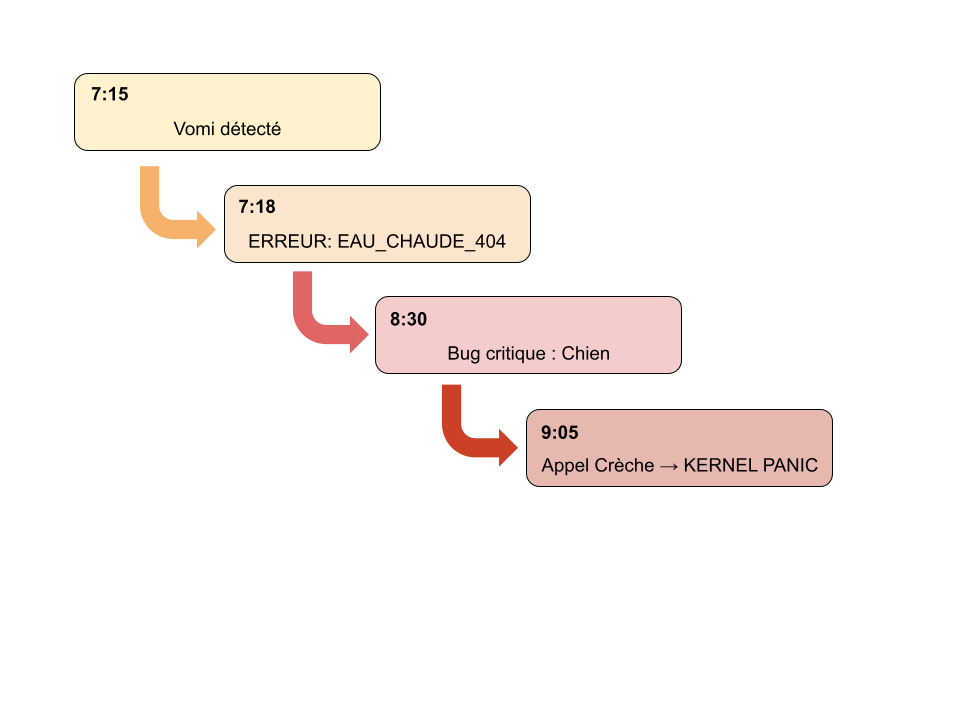
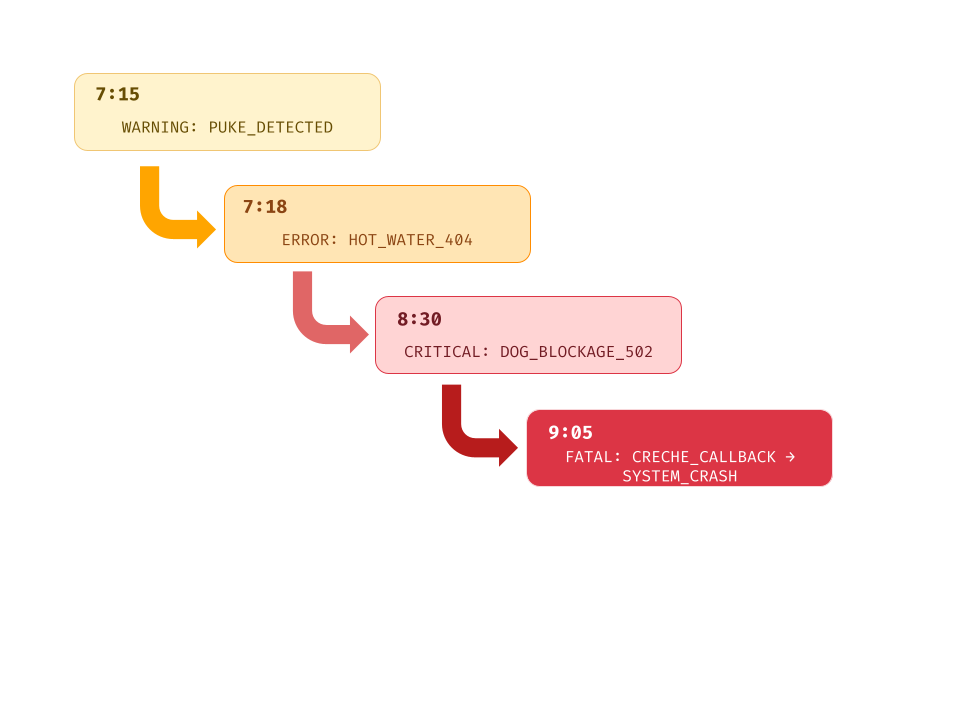
English 03

Changed region(s): [[0.4062, 0.4278, 0.875, 0.7028], [0.125, 0.2139, 0.5625, 0.3667], [0.0938, 0.1222, 0.3438, 0.2139]]

diff --git a/02-pratiques/ProjectManagerMaman/chroniques/03_EN_parental_resource_management.md b/02-pratiques/ProjectManagerMaman/chroniques/03_EN_parental_resource_management.md
@@ -1,0 +1,121 @@
+# Parental Resource Management: When My Kids Turn Me Into an RTS
+
+## 1. Critical Multi-tasking Detected at 7:23 AM
+
+This morning, 7:23 AM, I'm in full intensive micro-management mode. My baby is screaming for his toast while throwing the previous one on the floor, my toddler is running around with an overflowing diaper categorically refusing to be changed, and my dog is barking louder and louder to go out.
+
+I'm inventing a pathetic dance while trying to cook eggs that my older son "doesn't want" but will surely devour if they're not meant for him. Meanwhile, I'm singing an improvised song to distract the little one who cries as soon as I stop looking at him. The sleeves of his t-shirt—though short—are already all stained, he has food everywhere in his hair, and me... I'm on the verge of panicking and starting to cry too.
+
+Welcome to my daily Parental Resource Management. Or as I like to call it: "Terraforming Mars in survival mode with corporations that don't follow any rules."
+
+## 2. Domestic Economy in Free Fall
+
+In a classic resource management game, you start with a balanced board: some credits, base cards, a development plan. In my current family setup, my critical resources are different:
+
+**Energy**: 23% remaining upon waking (if good night), rapid decline with each crisis
+**Patience**: Exhaustible stock, recharge time 4-6h (mandatory nap)
+**Attention**: Impossible to manage multiple projects simultaneously, constantly arbitrating
+**Time**: Daycare deadline non-negotiable, route optimization critical
+
+The problem is that my "opponents" (the children) don't respect any game phase. In Terraforming Mars, at least, other players wait their turn. My children can trigger a crisis while I'm already managing three other emergencies.
+
+And unlike a normal game, you can't pause to plan your strategy.
+
+## 3. Multi-threading Management: Mission Impossible
+
+The morning I describe above? That's real-time multi-threading with processes that constantly crash. In the end, everyone is dressed, fed, and we go out. I leave the house in a state close to a giant meatball storm attack, but that's a problem for later. A later that will come a bit too quickly when we return from our walk... But if an atomic bomb took care of "tidying" my apartment, but the children are happy and doing well, then everything's fine, right?
+
+**Thread 1**: Breakfast preparation (high priority)
+**Thread 2**: Baby eating surveillance (critical - choking risk)
+**Thread 3**: Toddler diaper change negotiation (urgent - imminent overflow)
+**Thread 4**: Stressed dog management (can escalate rapidly)
+**Thread 5**: Mom's general state monitoring (resources in free fall)
+
+In my former life as a Cloud Engineer at Ubisoft, I managed infrastructures with thousands of simultaneous users. But here, with my two main "users," I feel like running a 1995 server on which someone installed Cyberpunk 2077.
+
+## 4. Incident Cascade: The Day Everything Collapses
+
+Let's talk about the day my SLAs completely exploded. It was a Tuesday, finally an almost decent night. I wake up optimistic: "Maybe today the system will hold."
+
+**7:15 AM**: First incident. My toddler wakes up and... vomits everywhere in his bed.
+**7:18 AM**: Escalation. We go to rinse him, but hot water cut off. My son obviously refuses cold water (I understand him).
+**7:45 AM**: Complication. It's THE day both are at daycare and I finally have time for myself. Coffee meeting with a friend planned.
+**8:30 AM**: New emergency. On the way to daycare, my dog has trouble with his needs. Poop blockage in his fur preventing him from relieving himself.
+
+You see the pattern. I drop off the children, go home to manage the canine crisis. And at the precise moment when I have my hands in my dog's poop trying to cut excess hair...
+
+The daycare calls. "Hello madam, can you come pick up your older son?"
+
+Game over. My resources were already at zero, my schedule imploded, and that's total stack overflow.
+
+**Typical fork critical example**: The other day, I'm changing my little one when I hear a metallic noise in the kitchen. I ask my older son what he's doing, but the activity is "too exciting" for him to come see me. Result: he wanted to smell all my teas and there's tea everywhere on the floor. An additional incident to manage when I already had my hands full.
+
+## 5. Survival Optimizations
+
+After months of family production incidents, I've developed some optimization strategies:
+
+**Wake-up load balancing**: When the older one wakes up first, I sprint to get him before he wakes his brother. Once they're both up, my CPUs are saturated.
+
+**Ruthless prioritization**: Overflowing diaper = P0 priority. Everything else can wait. Even if it means my tea gets cold and my eggs burn.
+
+**Resource pooling**: My work-from-home husband becomes a shared resource. "Honey, can you handle the barking dog while I negotiate with our recalcitrant toddler?"
+
+**Solution caching**: Invented songs that work, I make a mental playlist. Negotiations that work with the older one, I reuse them (until he updates his behavioral specs). Classic example: cutting his nails = impossible mission, unless I offer him a few minutes of Pokémon in exchange. Pure resource trading: screen time for his cooperation. Win-win until he realizes he can renegotiate contract terms.
+
+**Resource trading**: In Terraforming Mars, you exchange your resources for cards or actions. Here, I trade Pokémon content for parental compliance. The problem is that my "opponent" learns fast and starts asking for bonuses: "Mom, after the nails, can we watch a little more?"
+
+**Tactical diversions**: With the little one who absolutely wants to make percussion with his purée-filled spoon, I pretend to fill a spoon that I let him play with while another is truly devoted to feeding him. Pure diversion strategy.
+
+**Creative delegation**: To keep the older one near me without hand-holding battles: "You push your brother's stroller?" Suddenly, he becomes co-pilot of the mission instead of being a recalcitrant passenger. And for the little one in the stroller: dog leash wrapped around the handlebar, handle in his hands. He thinks he's walking the dog alone. Perfect illusion of control.
+
+## 6. Impossible Scaling: Complexity Explosion
+
+The thing is, in Terraforming Mars, you can develop your engine, optimize your cards, build synergies. In my case, my "projects" grow, but they don't become more efficient - they just develop new, more complex needs, like the most expensive cards in the game.
+
+My toddler now has impossible prerequisites for each action. He wants to help fold laundry (by unfolding everything), empty the machine (into the wrong bin), choose his clothes (dinosaur pajamas mandatory, even to go to daycare).
+
+It's as if in Scythe, your workers suddenly developed opinions about where they want to be deployed and refused to produce resources because they prefer making decorative mechs.
+
+## 7. Critical Resource Starvation: When You Hit Zero
+
+There are moments when all your gauges blink red simultaneously. The other day, at my limit, I went through my entire contact list: "What do you have planned this morning? Park walk together with the kids?" Nobody available. So I sat down on the floor of the balcony with my baby and hoped it would pass. As soon as energy returned, we'd go out.
+
+That's real resource starvation. In Terraforming Mars, when you don't have enough credits, you pass your turn and wait. In my life, when I have no more energy, the children still continue to have needs. No pause button.
+
+Most of the time, I forget myself so much that I have a headache at 5 PM because I haven't drunk all day... while I haven't stopped offering bottles and glasses of water to my children. Faulty resource allocation: I manage all my "users'" needs except mine.
+
+## 8. Investing for the Future: The Parental Tech Tree
+
+In Terraforming Mars, you don't spend all your resources in emergency - you invest part of them to unlock technologies that will help you later. Even in parental survival mode, you sometimes have to sacrifice present resources for future gain.
+
+**Research & development investment**: My husband and I read a lot to understand how to improve our older son's sleep. Time and energy spent (already rare resources), conclusions... limited. He still has trouble falling asleep. With the little one, we gave up - and he falls asleep super easily. Sometimes the solution is not looking for a solution.
+
+**Equipment upgrades**: First stroller received as a gift, wheels that got stuck in mud. I invest in a big-wheel stroller: game changer. Then baby born at 5kg with exponential curve, my back in shambles from carrying. I finally invest in a double stroller. I should have done it much sooner - immediate daily workflow optimization.
+
+**Natural unit evolution**: When your child learns to talk, it's a major system upgrade. Debugging becomes easier: "My tummy hurts" vs indecipherable cry. When he becomes potty-trained, you eliminate the entire diaper task chain. Your "units" evolve and require less maintenance - well, they require it differently.
+
+## 9. Permanent Debug: Parenthood and Systems Engineering
+
+Today, when a crisis breaks out (child crying for no apparent reason), I apply my systems engineering reflexes: I isolate the problem, test different solutions, observe metrics (cries per minute, cheek redness level).
+
+But sometimes debugging reveals unexpected things. The other day, epic tantrum from my older son because he didn't want to put on his shoes. Root cause after investigation: he wanted to put on his Spider-Man socks before his shoes. Undocumented user story: "As a toddler, I want to wear Spider-Man to have superpowers in my feet."
+
+## 10. Lifelong Resource Management
+
+These constrained resource management skills I'm developing daily, I plan to transfer them to my future Product Owner mission. Because ultimately, managing a product roadmap with unpredictable stakeholders, or managing two children with changing needs... same battle.
+
+It's always about optimal allocation of limited resources in an environment that refuses to stabilize. And accepting that sometimes, the best strategy is just to survive the enemy rush while keeping your critical structures standing.
+
+Even with cold tea and burnt eggs.
+
+---
+
+**Coming up in this series**: "Family Monitoring: My Parental Survival Metrics" - because after managing Ubisoft's infrastructure, monitoring two children feels like doing monitoring with stone-age tools.
+
+---
+
+*What about you, what's your worst parental resource starvation situation? Share your RTS survival strategies in the comments! 🍵*
+
+---
+
+**About Cecilia**: Ex-Chaos Engineer at ManoMano, ex-Cloud Engineer at Ubisoft, ex-equine shiatsu entrepreneur, future Product Owner and mom of two boys. From cloud infrastructure to stressed mares, I learned that everything is about taming complex systems. 🍵
